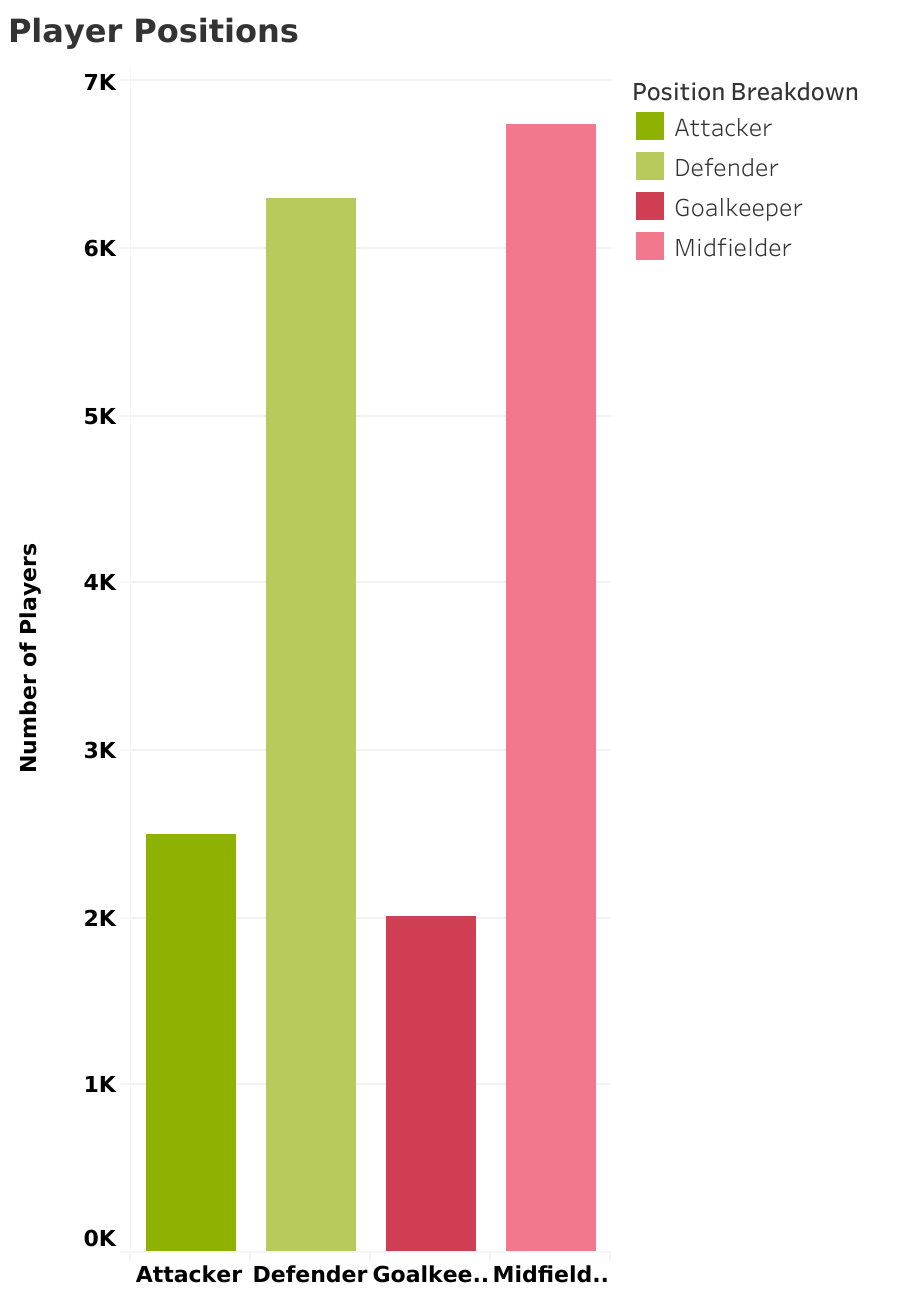
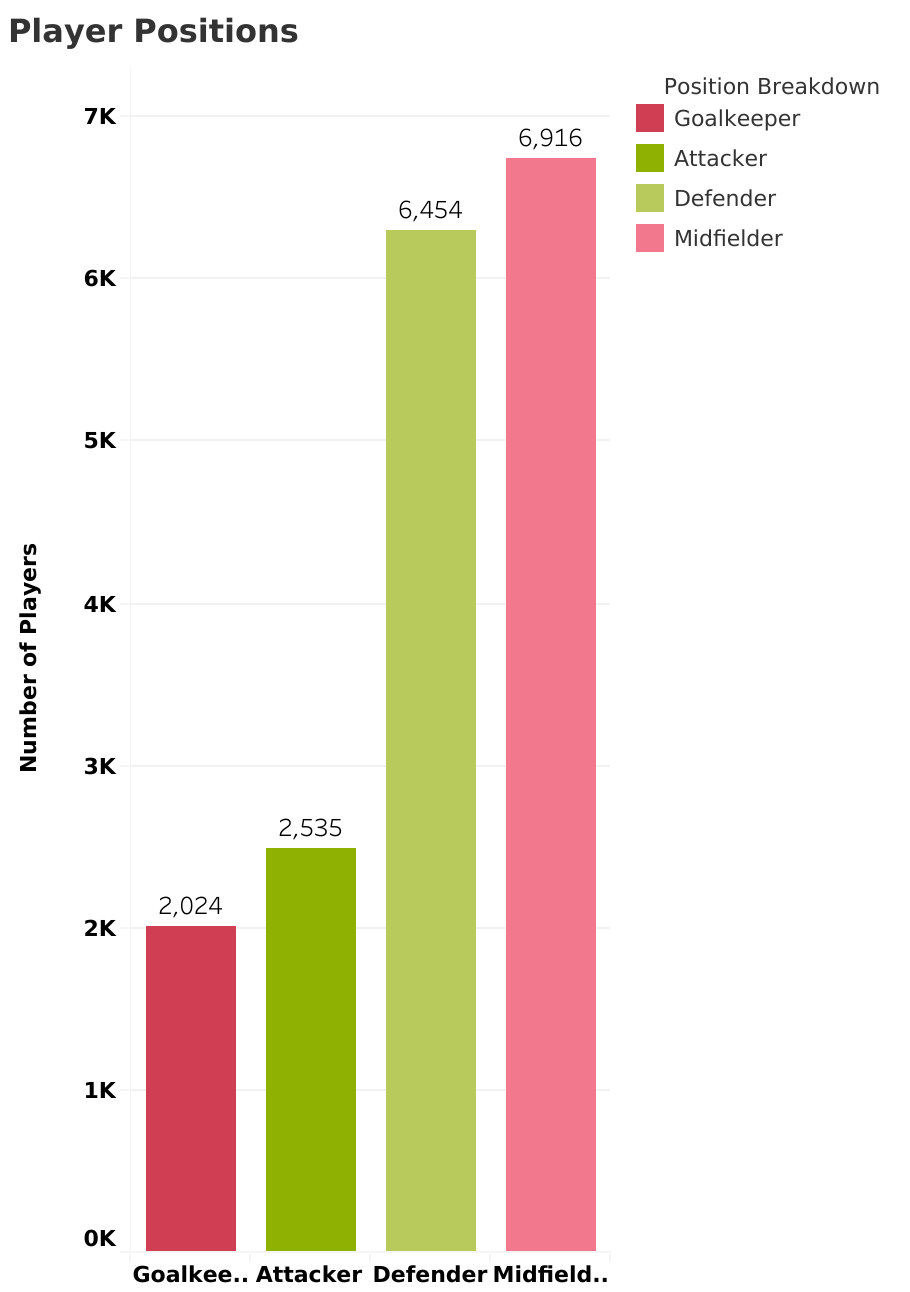
image update

diff --git a/README.md b/README.md
@@ -1,19 +1,25 @@
 # Final-Project-Tableau
 
-## Project/Goals
+# Project/Goals
 (fill in your description and goals here)
 
-## Process
+# Process
 ### Step 1: Review Dataset:
 
 The FIFA 18 database provided information on football players in the game, including their attributes and preferred positions. The data covered:
+
 -  Player information such as wages, values, names, ages, nationalities, overall and potential ratings, league and country of play, club, and division level. 
+
 - Attributes such as acceleration, agility, ball control, composure, finishing, heading accuracy, passing accuracy, and tackling, among others. 
+
 - Preferred positions categorized as CAM, CB, CDM, CF, CM, LAM, LB, LCB, LCM, LDM, LF, LM, LS, LW, LWB, RAM, RB, RCB, RCM, RDM, RF, RM, RS, RW, RWB, and ST.
 
 ### Step 2: Identify which important data type is missing
-There are several important data types that could be added to the FIFA 18 dataset in order to get a fuller picture of the footballing ecosystem and the factors that impact player and team performance. These include country of play, league and division level information, revenue, last season finish data, average fan attendance for games, number of minutes played in the previous season, and injury history. These missing data types could provide valuable insights into the factors that contribute to a team's success and player performance within FIFA 18. For example, country of play, league and division level information can help to identify trends and patterns in the concentration of skilled players in different regions, while revenue and last season finish data can provide insights into the financial performance of teams and the success of players. Average fan attendance for games, number of minutes played in the previous season, and injury history can help to identify the impact of external factors on a player's performance and career trajectory. Overall, incorporating these missing data types into future FIFA datasets can improve the accuracy and completeness of analysis on the game. 
+There are several important data types that could be added to the FIFA 18 dataset to conduct a thorough analysis of the football ecosystem and factors contributing to a team's success and player performance. For instance, country of play, league, and division level information can help identify trends and patterns across similarly ranked leagues. This is important because comparing a lower-spending and less-established league, such as 3.Liga (the third division in Germany), to a more established, higher-spending league, such as the Premier League (the first division in England), would be inappropriate, as the two leagues differ greatly in terms of spending, resources, and overall level of competition.
 
+Moreover, adding revenue and last season finish data could provide insights into the financial performance of teams and the success of players. Although players on the FIFA dataset are listed as individuals, their clubs' revenue and overall season finish could impact their wage and value. Additionally, data on average fan attendance and injury history could help identify the impact of external factors on a player's performance, morale, and career trajectory. Overall, incorporating these missing data types into future FIFA datasets can improve the accuracy and completeness of game analysis.
+
+I chose to add country of play, league, and division level information to my dataset prior to building visualisations as it was readily available on the FIFA 18 website. I felt this would add significantly to what I might be able to uncover across my visualizations and would overall make them easier to understand.
 
 ### Step 3. Build at least 5 different visualizations to learn more about the dataset.
 
@@ -26,9 +32,12 @@ For player positions, I created a calculated field using a IF statement to retur
 - Attackers: ST, LW, RW, CF
 - Goalkeeper: GK
 
-Breaking down the 15 independent variables into 4 catergorical variables made them significantly easier to analyse. I then used these catergorical fields to take a primary look at the amount of different players within each position across all leagues.
+Breaking down the 15 independent variables into 4 catergorical variables made them significantly easier to analyse. I then used these catergorical fields to take a look at the amount of different players within each position across all leagues.
 
-![Player Position Breakdown](image URL)
+![Player Position Breakdown]()
+
+The player breakdown was not surprising. As expected, goalkeepers had the lowest numbers as there is only one goalkeeper on a team of 11 at any given time, and 3-4 are usually listed on a 26-member team sheet at the start of a season. It was also expected to see a higher number of defenders and midfielders compared to strikers. This is because strikers have a more specialized role, with teams relying on a smaller number of them to score goals and create opportunities in the attacking third of the field. On the other hand, defenders and midfielders have a wider range of responsibilities, adapting to various attacking and defending roles based on the opposition and manager's preference.
+
 
 For player attributes:
 
